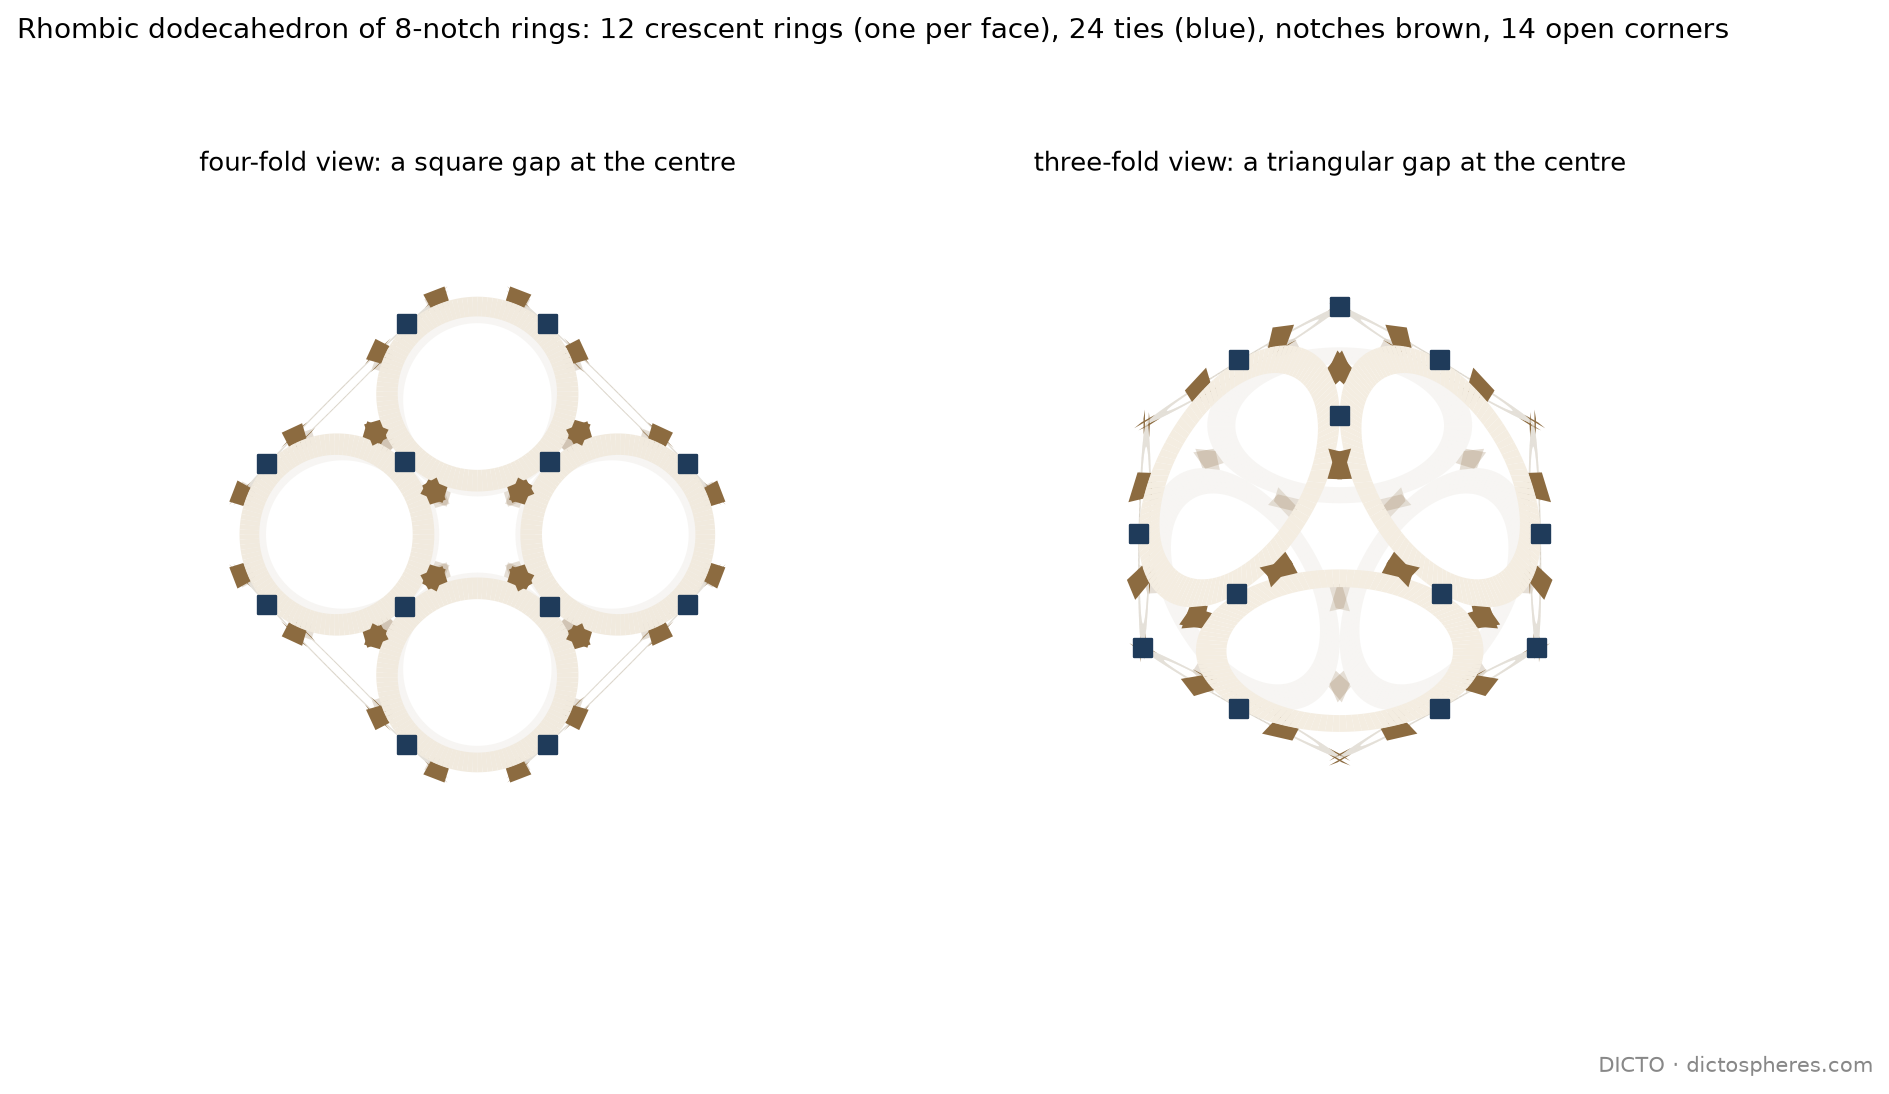
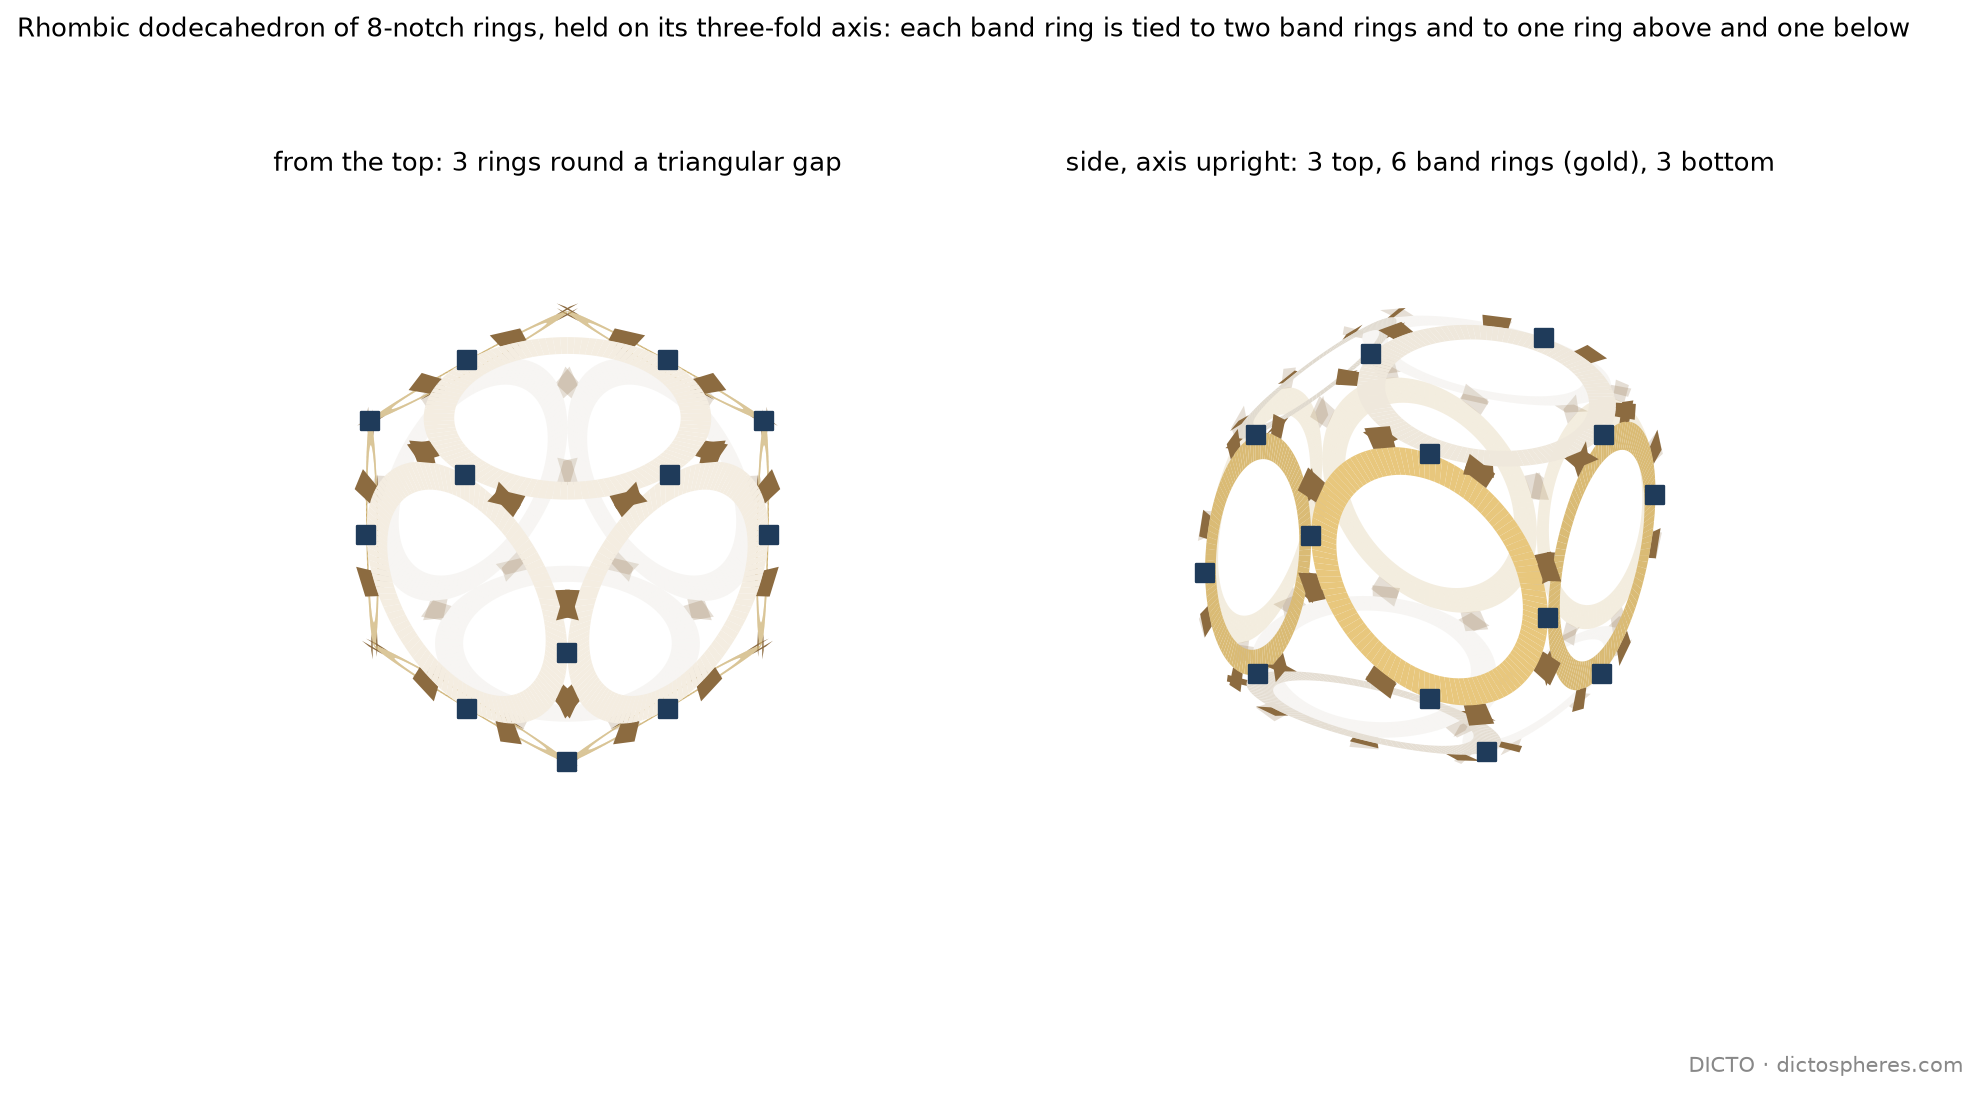
Ring RD drawing on the three-fold axis (DICTO: 3 top, 6 band, 3 bottom)

diff --git a/studies/2026-11-04-ring-rd/scripts/ring_rd.py b/studies/2026-11-04-ring-rd/scripts/ring_rd.py
@@ -17,8 +17,11 @@ for i, j in itertools.combinations(range(3), 2):
         short = np.zeros(3); short[3 - i - j] = 1.0                    # short diagonal direction
         faces.append((c, long * math.sqrt(2), short * 1.0))            # half-diagonals: sqrt2 (long), 1 (short)
 Rm = math.sqrt(2.75)   # radius of the edge midpoints
+_z = np.array([1, 1, 1]) / math.sqrt(3); _x = np.array([1, -1, 0]) / math.sqrt(2); _y = np.cross(_z, _x)
+ROT = np.array([_x, _y, _z])            # rows: new x, y, z; the three-fold axis (1,1,1) becomes vertical
+band = lambda c: abs(c @ np.array([1, 1, 1])) < 1e-9   # the 6 faces whose normals are perpendicular to the axis
 def bow(p):            # rings lie flat in their face planes; they touch exactly at the edge midpoints
-    return p
+    return ROT @ p
 def ring(c, L, S, w=0.15, nseg=120):
     p, q = np.linalg.norm(L) / math.sqrt(2), np.linalg.norm(S) / math.sqrt(2)
     lu, su = L / np.linalg.norm(L), S / np.linalg.norm(S)
@@ -38,7 +41,7 @@ V3 = [np.array(v, float) for v in itertools.product((1, -1), repeat=3)]
 for a in V4:
     for b in V3:
         if abs(np.linalg.norm(a - b) - math.sqrt(3)) < 1e-9:
-            m = (a + b) / 2
+            m = ROT @ ((a + b) / 2)
             ties.append(m)
 assert len(ties) == 24
 def draw(ax, elev, azim, title):
@@ -47,10 +50,11 @@ def draw(ax, elev, azim, title):
     polys, cols = [], []
     for c, L, S in faces:
         quads, lugs = ring(c, L, S)
-        front = (c / np.linalg.norm(c)) @ view
+        front = (ROT @ c / np.linalg.norm(c)) @ view
         al = 1.0 if front > -0.05 else 0.22
         shade = 0.86 + 0.12 * max(front, 0)
-        for qd in quads: polys.append(qd); cols.append((shade, shade * 0.97, shade * 0.92, al))
+        col = (0.93 * shade, 0.80 * shade, 0.50 * shade, al) if band(c) else (shade, shade * 0.97, shade * 0.92, al)
+        for qd in quads: polys.append(qd); cols.append(col)
         for lg in lugs: polys.append(lg); cols.append((0.55, 0.42, 0.25, al))
     pc = Poly3DCollection(polys, facecolors=cols, edgecolors='none')
     ax.add_collection3d(pc)
@@ -58,8 +62,8 @@ def draw(ax, elev, azim, title):
     lim = 1.55; ax.set_xlim(-lim, lim); ax.set_ylim(-lim, lim); ax.set_zlim(-lim, lim)
     ax.set_title(title, fontsize=11)
 fig = plt.figure(figsize=(12, 6.4))
-draw(fig.add_subplot(1, 2, 1, projection='3d'), 0, 0, 'four-fold view: a square gap at the centre')
-draw(fig.add_subplot(1, 2, 2, projection='3d'), 35.26, 45.0, 'three-fold view: a triangular gap at the centre')
-fig.suptitle("Rhombic dodecahedron of 8-notch rings: 12 crescent rings (one per face), 24 ties (blue), notches brown, 14 open corners", fontsize=12)
+draw(fig.add_subplot(1, 2, 1, projection='3d'), 90, -90, 'from the top: 3 rings round a triangular gap')
+draw(fig.add_subplot(1, 2, 2, projection='3d'), 12, -60, 'side, axis upright: 3 top, 6 band rings (gold), 3 bottom')
+fig.suptitle("Rhombic dodecahedron of 8-notch rings, held on its three-fold axis: each band ring is tied to two band rings and to one ring above and one below", fontsize=11)
 fig.text(0.99, 0.01, 'DICTO · dictospheres.com', ha='right', fontsize=9, color='#888')
 fig.savefig(os.path.join(OUT, 'ring-rd.png'), dpi=170, bbox_inches='tight'); print('ok')
